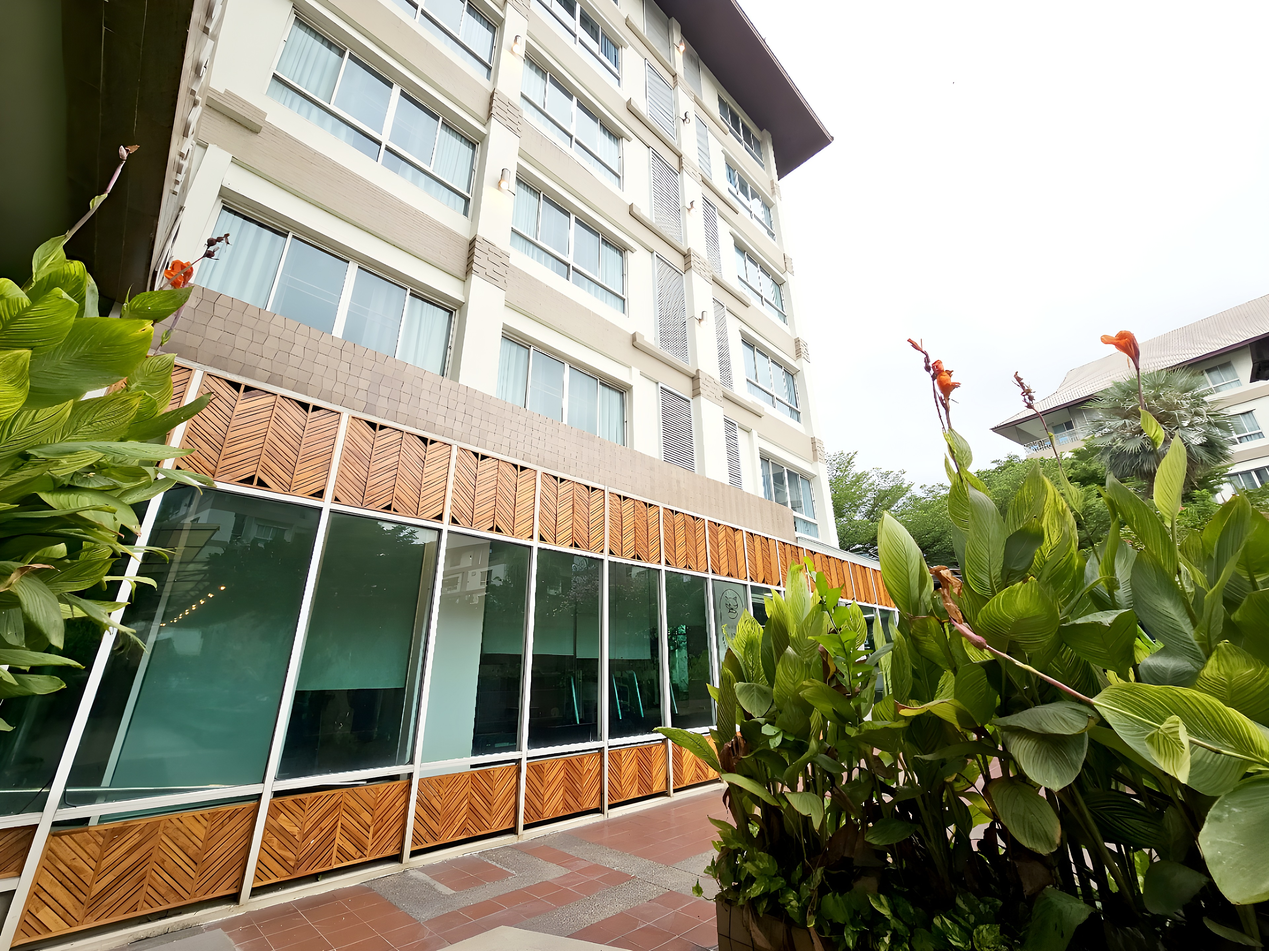
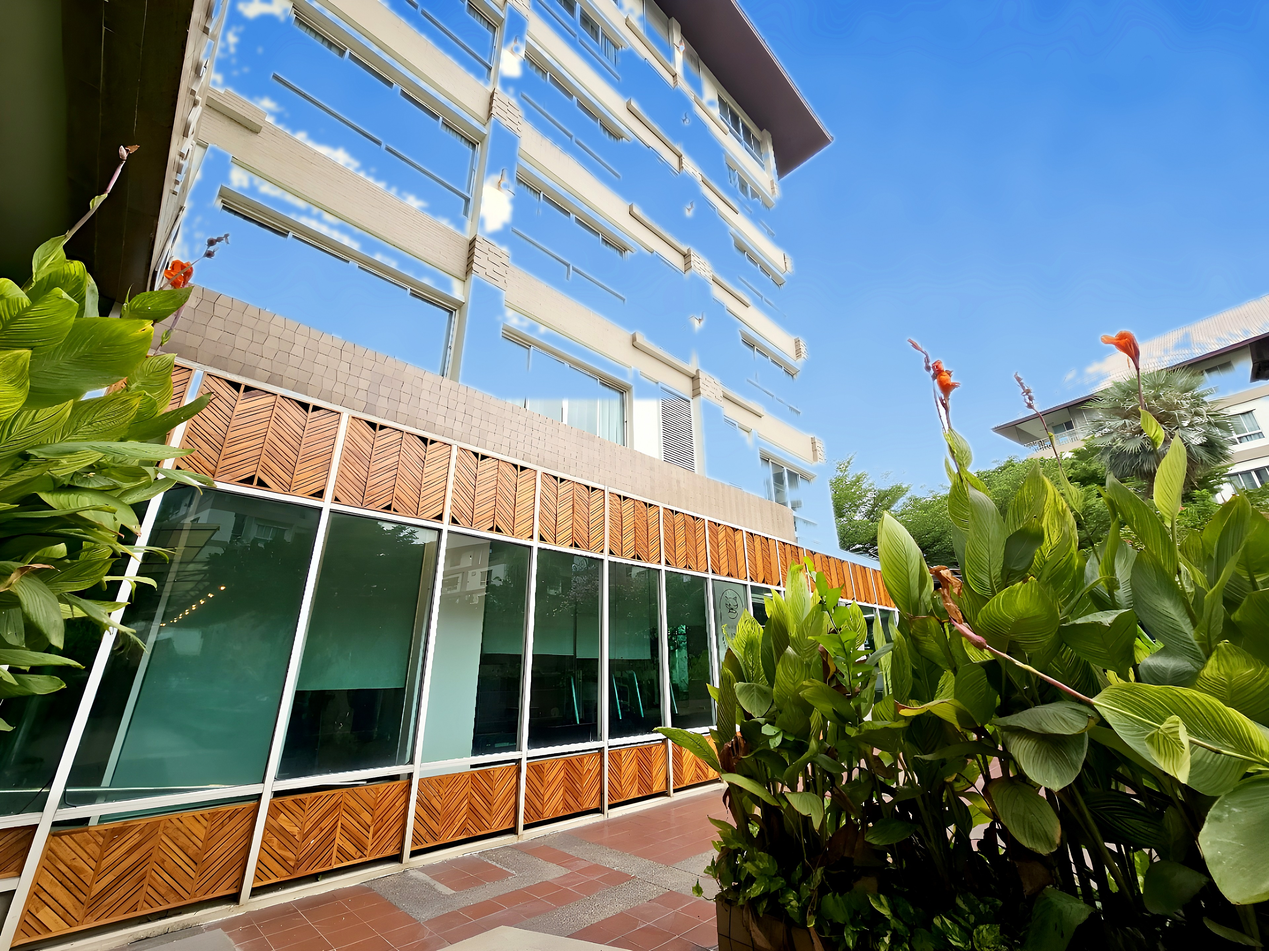
Cull unflattering room photos; clear blue sky for lobby shots
Remove 5 weak gallery photos flagged for deletion: Corner Suite room_02
(cramped desk) and room_06 (utility sink), and Executive Suite room_03
(old fridge), room_06 (cramped dining) and room_08 (worn sofa). Convert
both sets to explicit curated lists in media.js, trim the parallel
captions.js arrays, and update the photo-count badges (Corner 6->4,
Executive 8->5). Files deleted from disk too.

Add enhance_sky.py and run it on three Main Lobby exteriors: it masks the
flat overcast sky (bright, low-saturation, cool/neutral, connected to the
top edge so cream walls, green trees and white vans are left alone) and
composites a clean blue gradient with a faint cloud breakup plus a mild
vibrance lift — a clear, sunny sky on all three.

Changed region(s): [[0.125, 0.0, 1.0, 0.6185], [0.125, 0.402, 0.1562, 0.4329], [0.0625, 0.402, 0.0938, 0.4329]]

diff --git a/assets/js/media.js b/assets/js/media.js
@@ -28,7 +28,7 @@
   const ROOM_COUNTS = {
     "Prestige Single": 4, "Prestige Twin": 2,
     "Premium Single": 2, "Premium Twin": 2, "Grand Premium": 5,
-    "Corner Suite": 6, "Grand Deluxe": 5, "Executive Suite 1 Bedroom": 8,
+    "Grand Deluxe": 5,
     "Premium Suite": 7, "Grand Suite 1 Bedroom": 8
   };
   function seq(folder, prefix, n) {
@@ -234,6 +234,24 @@
     "images/Studio B4/room_06.jpg"
   ]);
 
+  /* Corner Suite & Executive Suite — curated subsets. A few unflattering
+     shots (old fridge, worn sofa, cramped utility corners) were removed
+     2026-06-09, so these are explicit lists rather than full room_NN
+     sequences. Keep parallel with captions.js. */
+  const CORNER_SUITE_ITEMS = imgs([
+    "images/Corner Suite/room_01.jpg",
+    "images/Corner Suite/room_03.jpg",
+    "images/Corner Suite/room_04.jpg",
+    "images/Corner Suite/room_05.jpg"
+  ]);
+  const EXEC_SUITE_ITEMS = imgs([
+    "images/Executive Suite 1 Bedroom/room_01.jpg",
+    "images/Executive Suite 1 Bedroom/room_02.jpg",
+    "images/Executive Suite 1 Bedroom/room_04.jpg",
+    "images/Executive Suite 1 Bedroom/room_05.jpg",
+    "images/Executive Suite 1 Bedroom/room_07.jpg"
+  ]);
+
   const HERO_ITEMS = imgs(["images/Tropical Pool/ffcc842a-2003-4239-ae74-0e6c0b10f883.jpg"]);
   const ABOUT_MAIN_ITEMS = imgs(["images/Tropical Pool/ce70057e-42f0-4b44-9f67-18598f22ff3a.jpg"]);
   const ABOUT_SUB_ITEMS = imgs(["images/Tropical Pool/c3ac1733-933b-49de-aa10-7185a21dbe5f.jpg"]);
@@ -274,9 +292,9 @@
     { id: "room:Premium Single",  labelKey: "rooms.premiumSingleName", section: "rooms", gallery: true, items: roomItems("Premium Single") },
     { id: "room:Premium Twin",    labelKey: "rooms.premiumTwinName",   section: "rooms", gallery: true, items: roomItems("Premium Twin") },
     { id: "room:Grand Premium",   labelKey: "rooms.grandPremiumName",  section: "rooms", gallery: true, items: roomItems("Grand Premium") },
-    { id: "room:Corner Suite",    labelKey: "rooms.cornerName",        section: "rooms", gallery: true, items: roomItems("Corner Suite") },
+    { id: "room:Corner Suite",    labelKey: "rooms.cornerName",        section: "rooms", gallery: true, items: CORNER_SUITE_ITEMS },
     { id: "room:Grand Deluxe",    labelKey: "rooms.grandDeluxeName",   section: "rooms", gallery: true, items: roomItems("Grand Deluxe") },
-    { id: "room:Executive Suite 1 Bedroom", labelKey: "rooms.execSuite1brName", section: "rooms", gallery: true, items: roomItems("Executive Suite 1 Bedroom") },
+    { id: "room:Executive Suite 1 Bedroom", labelKey: "rooms.execSuite1brName", section: "rooms", gallery: true, items: EXEC_SUITE_ITEMS },
     { id: "room:Premium Suite",   labelKey: "rooms.premiumSuiteName",  section: "rooms", gallery: true, items: roomItems("Premium Suite") },
     { id: "room:Grand Suite 1 Bedroom", labelKey: "rooms.grandSuiteName", section: "rooms", gallery: true, items: roomItems("Grand Suite 1 Bedroom") },
     { id: "building5",    labelKey: "building.galTitle",      section: "building",   gallery: true, galleryKey: "building.galTitle", items: BUILDING5_ITEMS },

diff --git a/index.html b/index.html
@@ -519,7 +519,7 @@
     </article>
 
     <article class="room-card reveal" data-room="Corner Suite" tabindex="0" role="button" aria-label="Corner Suite — view photos">
-      <div class="room-img"><img src="images/Corner%20Suite/room_01.jpg" data-i18n-attr="alt:rooms.cornerName" alt="Corner Suite" loading="lazy" /><span class="room-photos" aria-hidden="true">&#128247; 6</span></div>
+      <div class="room-img"><img src="images/Corner%20Suite/room_01.jpg" data-i18n-attr="alt:rooms.cornerName" alt="Corner Suite" loading="lazy" /><span class="room-photos" aria-hidden="true">&#128247; 4</span></div>
       <div class="room-body">
         <span class="room-size" data-i18n="rooms.cornerSize">55 m²</span>
         <h3 data-i18n="rooms.cornerName">Corner Suite</h3>
@@ -537,7 +537,7 @@
     </article>
 
     <article class="room-card reveal" data-room="Executive Suite 1 Bedroom" tabindex="0" role="button" aria-label="Executive Suite 1 Bedroom — view photos">
-      <div class="room-img"><img src="images/Executive%20Suite%201%20Bedroom/room_01.jpg" data-i18n-attr="alt:rooms.execSuite1brName" alt="Executive Suite 1 Bedroom" loading="lazy" /><span class="room-photos" aria-hidden="true">&#128247; 8</span></div>
+      <div class="room-img"><img src="images/Executive%20Suite%201%20Bedroom/room_01.jpg" data-i18n-attr="alt:rooms.execSuite1brName" alt="Executive Suite 1 Bedroom" loading="lazy" /><span class="room-photos" aria-hidden="true">&#128247; 5</span></div>
       <div class="room-body">
         <span class="room-size" data-i18n="rooms.execSuiteSize">75 m²</span>
         <h3 data-i18n="rooms.execSuite1brName">Executive Suite · 1 Bedroom</h3>

diff --git a/assets/js/captions.js b/assets/js/captions.js
@@ -54,11 +54,9 @@ window.JPark.captions = {
   ],
   "room:Corner Suite": [
     "livingArea",
-    "workspace",
     "bedroom",
     "kitchenette",
-    "diningArea",
-    "kitchenette"
+    "diningArea"
   ],
   "room:Grand Deluxe": [
     "livingArea",
@@ -70,12 +68,9 @@ window.JPark.captions = {
   "room:Executive Suite 1 Bedroom": [
     "bedroom",
     "livingArea",
-    "kitchenette",
     "bathroom",
     "bedroom",
-    "diningArea",
-    "bedroom",
-    "livingArea"
+    "bedroom"
   ],
   "room:Premium Suite": [
     "livingDining",

diff --git a/enhance_sky.py b/enhance_sky.py
@@ -1,0 +1,125 @@
+"""
+Sky beautifier for selected Main Lobby photos.
+
+Turns the flat, overcast white-grey sky into a clean, clear blue gradient
+while leaving buildings, trees and foreground untouched.
+
+How the sky is found (so we don't paint over cream walls or green leaves):
+  * bright            -> V (max channel) high
+  * washed out        -> low saturation
+  * neutral / cool    -> blue >= red  (warm cream buildings are excluded)
+  * connected to top  -> flood the mask down from the sky at the top edge,
+                         plus keep low-saturation bright patches high in the
+                         frame (sky seen through the tree canopy), so stray
+                         white objects lower down (vans, signs) are ignored.
+The mask is feathered, then a vertical blue gradient is alpha-composited in.
+A whisper of soft cloud breakup and a mild global vibrance lift sell the
+"sunny day" look. Originals are tracked in git, so this edits in place.
+"""
+import sys
+import numpy as np
+import cv2
+from PIL import Image, ImageOps
+
+TARGETS = [
+    r"images/Main Lobby/20260607_174349.jpg",
+    r"images/Main Lobby/20260607_174418.jpg",
+    r"images/Main Lobby/20260609_175332.jpg",
+]
+
+# Sky-detection thresholds
+V_MIN = 0.66        # min brightness (0..1) for a sky candidate
+S_MAX = 0.22        # max saturation (0..1)
+COOL_MIN = -0.045   # min (B - R) in 0..1 units; cream walls fall below this
+TOP_BAND = 0.04     # rows within this top fraction seed the "connected" sky
+HIGH_BAND = 0.42    # bright/low-sat patches above this fraction are kept too
+
+# Clear-sky gradient (RGB). Top = vivid but natural; horizon = pale.
+TOP_COLOR = np.array([70, 140, 226], dtype=np.float32)
+HORIZON_COLOR = np.array([198, 227, 245], dtype=np.float32)
+GRADIENT_SPAN = 0.66  # fraction of height over which top->horizon plays out
+
+
+def sky_mask(rgb):
+    """Return a feathered 0..1 sky mask for an HxWx3 float (0..1) RGB image."""
+    h, w, _ = rgb.shape
+    r, g, b = rgb[..., 0], rgb[..., 1], rgb[..., 2]
+    v = rgb.max(axis=2)
+    mn = rgb.min(axis=2)
+    sat = np.where(v > 1e-6, (v - mn) / np.maximum(v, 1e-6), 0.0)
+
+    candidate = (v >= V_MIN) & (sat <= S_MAX) & ((b - r) >= COOL_MIN)
+    cand_u8 = candidate.astype(np.uint8)
+
+    # Components of the candidate mask that reach the very top of the frame.
+    num, labels = cv2.connectedComponents(cand_u8, connectivity=8)
+    top_rows = labels[: max(1, int(h * TOP_BAND)), :]
+    keep = set(np.unique(top_rows)) - {0}
+    connected = np.isin(labels, list(keep)) if keep else np.zeros_like(candidate)
+
+    # Also keep bright low-sat candidates high in the frame (canopy gaps),
+    # so holes of sky between leaves get coloured consistently.
+    rows = np.arange(h)[:, None] / float(h)
+    high = candidate & (rows <= HIGH_BAND)
+
+    mask = (connected | high).astype(np.float32)
+
+    # Clean speckle, then feather the edge so trees/branches blend softly.
+    mask = cv2.morphologyEx(mask, cv2.MORPH_OPEN, np.ones((3, 3), np.uint8))
+    mask = cv2.morphologyEx(mask, cv2.MORPH_CLOSE, np.ones((5, 5), np.uint8))
+    mask = cv2.GaussianBlur(mask, (0, 0), sigmaX=max(1.5, w / 600.0))
+    return np.clip(mask, 0.0, 1.0)
+
+
+def gradient_sky(h, w):
+    """Vertical clear-blue gradient with a faint cloud breakup."""
+    rows = np.clip(np.arange(h) / (GRADIENT_SPAN * h), 0.0, 1.0)[:, None, None]
+    grad = TOP_COLOR[None, None, :] * (1 - rows) + HORIZON_COLOR[None, None, :] * rows
+    grad = np.repeat(grad, w, axis=1).astype(np.float32)
+
+    # Soft, low-contrast clouds: blurred low-frequency noise, screened in gently.
+    rng = np.random.default_rng(7)
+    noise = rng.random((max(2, h // 40), max(2, w // 40))).astype(np.float32)
+    noise = cv2.resize(noise, (w, h), interpolation=cv2.INTER_CUBIC)
+    noise = cv2.GaussianBlur(noise, (0, 0), sigmaX=w / 90.0)
+    noise = (noise - noise.min()) / (np.ptp(noise) + 1e-6)
+    veil = (0.10 * noise)[..., None]            # up to ~10% lift
+    grad = grad + veil * (255.0 - grad)         # screen-ish toward white
+    return np.clip(grad, 0, 255)
+
+
+def vibrance(rgb_u8, sat_mul=1.08, contrast=1.05):
+    """Mild global vibrance + contrast so the scene reads as a sunny day."""
+    hsv = cv2.cvtColor(rgb_u8, cv2.COLOR_RGB2HSV).astype(np.float32)
+    hsv[..., 1] = np.clip(hsv[..., 1] * sat_mul, 0, 255)
+    out = cv2.cvtColor(hsv.astype(np.uint8), cv2.COLOR_HSV2RGB).astype(np.float32)
+    out = np.clip((out - 128) * contrast + 128, 0, 255)
+    return out.astype(np.uint8)
+
+
+def process(path):
+    img = ImageOps.exif_transpose(Image.open(path)).convert("RGB")
+    arr = np.asarray(img).astype(np.float32)
+    h, w, _ = arr.shape
+    rgb01 = arr / 255.0
+
+    mask = sky_mask(rgb01)[..., None]
+    grad = gradient_sky(h, w)
+
+    out = arr * (1 - mask) + grad * mask
+    out = np.clip(out, 0, 255).astype(np.uint8)
+    out = vibrance(out)
+
+    # Tiny dither to kill any gradient banding after JPEG.
+    out = np.clip(out.astype(np.float32) + np.random.default_rng(3).normal(0, 1.0, out.shape), 0, 255).astype(np.uint8)
+
+    Image.fromarray(out).save(path, "JPEG", quality=92, optimize=True)
+    cover = float(mask.mean())
+    print(f"  {path}  sky ~{cover*100:4.1f}% of frame")
+
+
+if __name__ == "__main__":
+    for p in TARGETS:
+        print("Enhancing", p)
+        process(p)
+    print("Done.")
